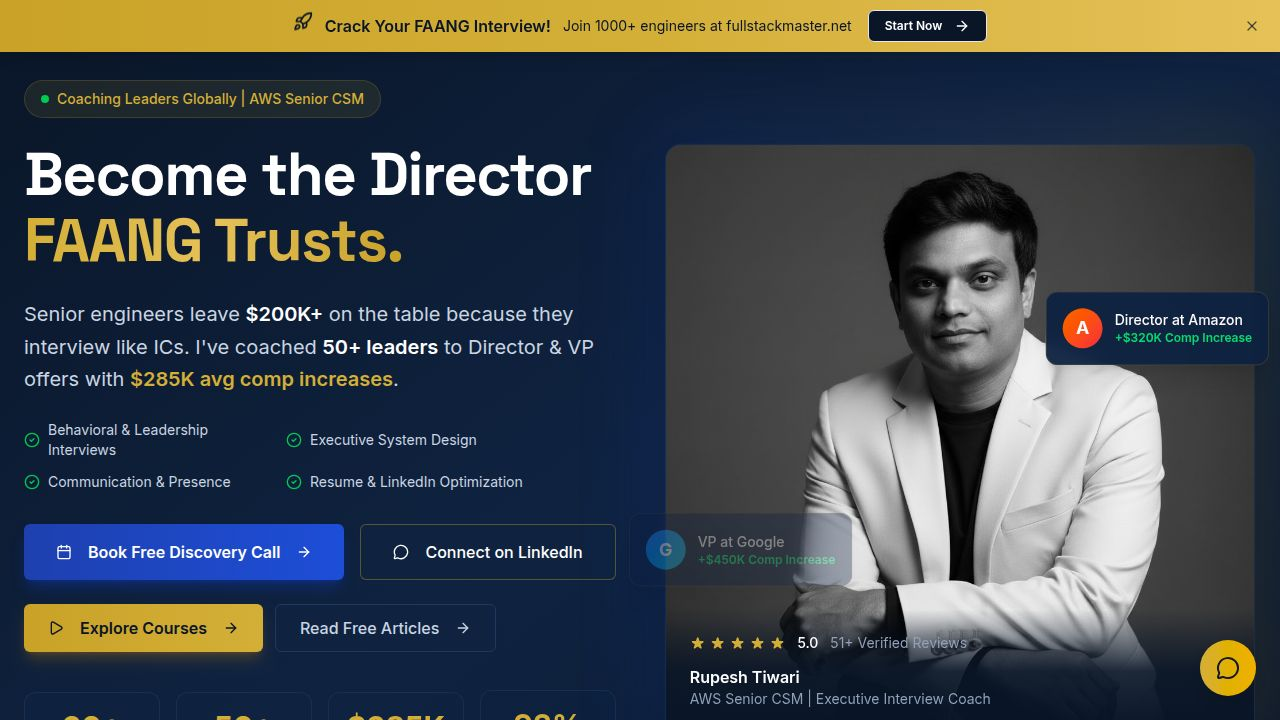
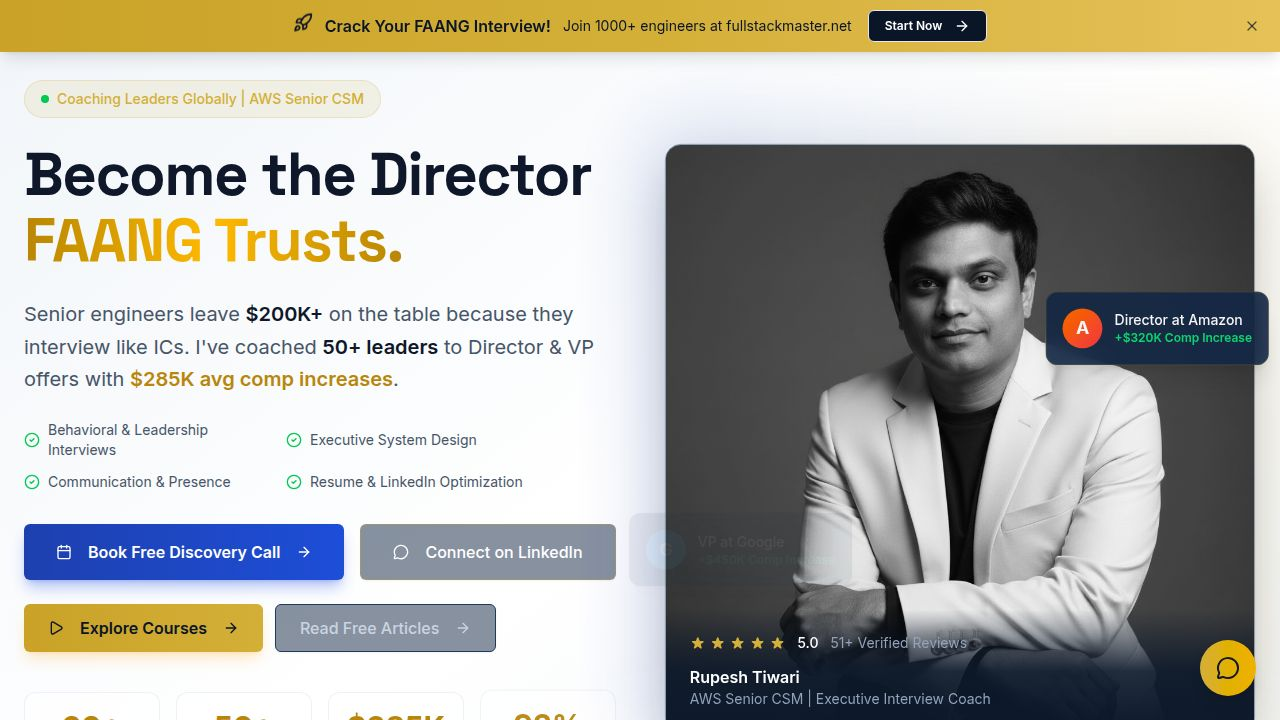
Enhance website interactivity and theme switching capabilities
Add a floating theme toggle button and improve search suggestions with keyboard navigation and visual feedback. Adjust hero and testimonial card interactions for a more engaging user experience.

Replit-Commit-Author: Agent
Replit-Commit-Session-Id: b697ffaf-d7ae-4622-821a-0321620efc27
Replit-Commit-Checkpoint-Type: intermediate_checkpoint
Replit-Commit-Event-Id: f4e4c627-a6f6-46a4-ac2e-e09452f16729
Replit-Commit-Screenshot-Url: https://storage.googleapis.com/screenshot-production-us-central1/61a264a3-8011-425a-8774-88c79ad887fa/b697ffaf-d7ae-4622-821a-0321620efc27/9WAB5SM
Replit-Helium-Checkpoint-Created: true

diff --git a/client/src/components/navbar.tsx b/client/src/components/navbar.tsx
@@ -1,17 +1,39 @@
-import { useState, useEffect } from "react";
+import { useState, useEffect, useRef } from "react";
 import { Link, useLocation } from "wouter";
-import { Menu, X, Calendar, MessageCircle, Search } from "lucide-react";
+import { Menu, X, Calendar, MessageCircle, Search, TrendingUp } from "lucide-react";
 import { Button } from "@/components/ui/button";
 import { motion, AnimatePresence } from "framer-motion";
 import { Input } from "@/components/ui/input";
 import ThemeToggle from "./theme-toggle";
+
+const searchSuggestions = [
+  { term: "System Design", icon: "🏗" },
+  { term: "AWS Architecture", icon: "☁" },
+  { term: "FAANG Interview", icon: "🎯" },
+  { term: "Microservices", icon: "🔧" },
+  { term: "Leadership", icon: "👔" },
+  { term: "Azure Cloud", icon: "💎" },
+  { term: "Kubernetes", icon: "⚙" },
+  { term: "DevOps", icon: "🚀" },
+  { term: "Angular", icon: "🅰" },
+  { term: "TypeScript", icon: "📘" },
+];
 
 export default function Navbar() {
   const [isOpen, setIsOpen] = useState(false);
   const [scrolled, setScrolled] = useState(false);
   const [showSearch, setShowSearch] = useState(false);
   const [searchQuery, setSearchQuery] = useState("");
+  const [showDesktopSuggestions, setShowDesktopSuggestions] = useState(false);
+  const [selectedIndex, setSelectedIndex] = useState(-1);
+  const searchRef = useRef<HTMLDivElement>(null);
   const [location] = useLocation();
+
+  const filteredSuggestions = searchQuery.trim()
+    ? searchSuggestions.filter(s => 
+        s.term.toLowerCase().includes(searchQuery.toLowerCase())
+      )
+    : searchSuggestions;
 
   const handleSearch = (e: React.FormEvent) => {
     e.preventDefault();
@@ -19,6 +41,33 @@ export default function Navbar() {
       window.open(`https://blog.rupeshtiwari.com/search?q=${encodeURIComponent(searchQuery.trim())}`, '_blank');
       setSearchQuery("");
       setShowSearch(false);
+      setShowDesktopSuggestions(false);
+    }
+  };
+
+  const handleSuggestionClick = (term: string) => {
+    window.open(`https://blog.rupeshtiwari.com/search?q=${encodeURIComponent(term)}`, '_blank');
+    setSearchQuery("");
+    setShowSearch(false);
+    setShowDesktopSuggestions(false);
+  };
+
+  const handleKeyDown = (e: React.KeyboardEvent) => {
+    if (!showDesktopSuggestions) return;
+    
+    if (e.key === "ArrowDown") {
+      e.preventDefault();
+      setSelectedIndex(prev => 
+        prev < filteredSuggestions.length - 1 ? prev + 1 : prev
+      );
+    } else if (e.key === "ArrowUp") {
+      e.preventDefault();
+      setSelectedIndex(prev => prev > 0 ? prev - 1 : -1);
+    } else if (e.key === "Enter" && selectedIndex >= 0) {
+      e.preventDefault();
+      handleSuggestionClick(filteredSuggestions[selectedIndex].term);
+    } else if (e.key === "Escape") {
+      setShowDesktopSuggestions(false);
     }
   };
 
@@ -28,6 +77,16 @@ export default function Navbar() {
     };
     window.addEventListener("scroll", handleScroll);
     return () => window.removeEventListener("scroll", handleScroll);
+  }, []);
+
+  useEffect(() => {
+    const handleClickOutside = (e: MouseEvent) => {
+      if (searchRef.current && !searchRef.current.contains(e.target as Node)) {
+        setShowDesktopSuggestions(false);
+      }
+    };
+    document.addEventListener("mousedown", handleClickOutside);
+    return () => document.removeEventListener("mousedown", handleClickOutside);
   }, []);
 
   const links = [
@@ -95,28 +154,70 @@ export default function Navbar() {
           <div className="flex items-center gap-2 ml-2">
             <AnimatePresence>
               {showSearch && (
-                <motion.form
+                <motion.div
+                  ref={searchRef}
                   initial={{ width: 0, opacity: 0 }}
-                  animate={{ width: "200px", opacity: 1 }}
+                  animate={{ width: "280px", opacity: 1 }}
                   exit={{ width: 0, opacity: 0 }}
                   transition={{ duration: 0.2 }}
-                  onSubmit={handleSearch}
-                  className="overflow-hidden"
+                  className="relative overflow-visible"
                 >
-                  <Input
-                    type="text"
-                    placeholder="Search blog..."
-                    value={searchQuery}
-                    onChange={(e) => setSearchQuery(e.target.value)}
-                    className="h-8 bg-[var(--theme-bg-card)] border-[var(--theme-border)] text-[var(--theme-text-primary)] placeholder:text-[var(--theme-text-muted)] focus:border-[var(--theme-gold)]"
-                    autoFocus
-                    data-testid="input-search"
-                  />
-                </motion.form>
+                  <form onSubmit={handleSearch}>
+                    <Input
+                      type="text"
+                      placeholder="Search blog..."
+                      value={searchQuery}
+                      onChange={(e) => {
+                        setSearchQuery(e.target.value);
+                        setShowDesktopSuggestions(true);
+                        setSelectedIndex(-1);
+                      }}
+                      onFocus={() => setShowDesktopSuggestions(true)}
+                      onKeyDown={handleKeyDown}
+                      className="h-8 bg-[var(--theme-bg-card)] border-[var(--theme-border)] text-[var(--theme-text-primary)] placeholder:text-[var(--theme-text-muted)] focus:border-[var(--theme-gold)]"
+                      autoFocus
+                      data-testid="input-search"
+                    />
+                  </form>
+                  <AnimatePresence>
+                    {showDesktopSuggestions && filteredSuggestions.length > 0 && (
+                      <motion.div
+                        initial={{ opacity: 0, y: -10 }}
+                        animate={{ opacity: 1, y: 0 }}
+                        exit={{ opacity: 0, y: -10 }}
+                        className="absolute top-full left-0 right-0 mt-1 bg-[var(--theme-bg-card)] border border-[var(--theme-border)] rounded-lg shadow-xl overflow-hidden z-50"
+                      >
+                        <div className="px-3 py-2 border-b border-[var(--theme-border)]">
+                          <span className="text-xs text-[var(--theme-text-muted)] flex items-center gap-1">
+                            <TrendingUp className="w-3 h-3" /> Popular Topics
+                          </span>
+                        </div>
+                        {filteredSuggestions.slice(0, 6).map((suggestion, index) => (
+                          <button
+                            key={suggestion.term}
+                            onClick={() => handleSuggestionClick(suggestion.term)}
+                            className={`w-full px-3 py-2 text-left text-sm flex items-center gap-2 transition-colors ${
+                              index === selectedIndex
+                                ? "bg-[var(--theme-gold)]/20 text-[var(--theme-gold)]"
+                                : "text-[var(--theme-text-primary)] hover:bg-[var(--theme-bg-secondary)]"
+                            }`}
+                            data-testid={`suggestion-${suggestion.term.toLowerCase().replace(/\s+/g, '-')}`}
+                          >
+                            <span>{suggestion.icon}</span>
+                            <span>{suggestion.term}</span>
+                          </button>
+                        ))}
+                      </motion.div>
+                    )}
+                  </AnimatePresence>
+                </motion.div>
               )}
             </AnimatePresence>
             <button
-              onClick={() => setShowSearch(!showSearch)}
+              onClick={() => {
+                setShowSearch(!showSearch);
+                if (!showSearch) setShowDesktopSuggestions(true);
+              }}
               className="p-2 text-[var(--theme-text-muted)] hover:text-[var(--theme-text-primary)] transition-colors"
               data-testid="button-search-toggle"
               title="Search Blog"
@@ -156,22 +257,51 @@ export default function Navbar() {
             className="md:hidden bg-[var(--theme-bg-secondary)] border-b border-[var(--theme-border)]"
           >
             <div className="flex flex-col p-6 gap-4">
-              <form onSubmit={handleSearch} className="relative mb-2">
-                <Input
-                  type="text"
-                  placeholder="Search blog articles..."
-                  value={searchQuery}
-                  onChange={(e) => setSearchQuery(e.target.value)}
-                  className="h-10 bg-[var(--theme-bg-card)] border-[var(--theme-border)] text-[var(--theme-text-primary)] placeholder:text-[var(--theme-text-muted)] focus:border-[var(--theme-gold)] pr-10"
-                  data-testid="input-search-mobile"
-                />
-                <button
-                  type="submit"
-                  className="absolute right-3 top-1/2 -translate-y-1/2 text-slate-400 hover:text-[#D4AF37]"
+              <div className="relative mb-2">
+                <form onSubmit={handleSearch}>
+                  <Input
+                    type="text"
+                    placeholder="Search blog articles..."
+                    value={searchQuery}
+                    onChange={(e) => setSearchQuery(e.target.value)}
+                    className="h-10 bg-[var(--theme-bg-card)] border-[var(--theme-border)] text-[var(--theme-text-primary)] placeholder:text-[var(--theme-text-muted)] focus:border-[var(--theme-gold)] pr-10"
+                    data-testid="input-search-mobile"
+                  />
+                  <button
+                    type="submit"
+                    className="absolute right-3 top-1/2 -translate-y-1/2 text-slate-400 hover:text-[#D4AF37]"
+                  >
+                    <Search className="w-4 h-4" />
+                  </button>
+                </form>
+                <motion.div
+                  initial={{ opacity: 0, y: -5 }}
+                  animate={{ opacity: 1, y: 0 }}
+                  className="mt-2 bg-[var(--theme-bg-card)] border border-[var(--theme-border)] rounded-lg overflow-hidden"
                 >
-                  <Search className="w-4 h-4" />
-                </button>
-              </form>
+                  <div className="px-3 py-2 border-b border-[var(--theme-border)]">
+                    <span className="text-xs text-[var(--theme-text-muted)] flex items-center gap-1">
+                      <TrendingUp className="w-3 h-3" /> Popular Topics
+                    </span>
+                  </div>
+                  <div className="grid grid-cols-2 gap-1 p-2">
+                    {filteredSuggestions.slice(0, 6).map((suggestion) => (
+                      <button
+                        key={suggestion.term}
+                        onClick={() => {
+                          handleSuggestionClick(suggestion.term);
+                          setIsOpen(false);
+                        }}
+                        className="px-3 py-2 text-left text-sm flex items-center gap-2 text-[var(--theme-text-primary)] hover:bg-[var(--theme-bg-secondary)] rounded-md transition-colors active:scale-95"
+                        data-testid={`suggestion-mobile-${suggestion.term.toLowerCase().replace(/\s+/g, '-')}`}
+                      >
+                        <span>{suggestion.icon}</span>
+                        <span className="truncate">{suggestion.term}</span>
+                      </button>
+                    ))}
+                  </div>
+                </motion.div>
+              </div>
               {links.map((link) => (
                 link.external ? (
                   <a

diff --git a/client/src/components/floating-theme-toggle.tsx b/client/src/components/floating-theme-toggle.tsx
@@ -1,0 +1,76 @@
+import { Moon, Sun } from "lucide-react";
+import { useEffect, useState } from "react";
+import { motion, AnimatePresence } from "framer-motion";
+
+export default function FloatingThemeToggle() {
+  const [theme, setThemeState] = useState<"light" | "dark">("dark");
+  const [mounted, setMounted] = useState(false);
+  const [isHovered, setIsHovered] = useState(false);
+
+  useEffect(() => {
+    setMounted(true);
+    const stored = localStorage.getItem("theme") as "light" | "dark" | null;
+    const systemDark = window.matchMedia("(prefers-color-scheme: dark)").matches;
+    const initial = stored || (systemDark ? "dark" : "light");
+    setThemeState(initial);
+
+    const observer = new MutationObserver(() => {
+      const isDark = document.documentElement.classList.contains("dark");
+      setThemeState(isDark ? "dark" : "light");
+    });
+
+    observer.observe(document.documentElement, {
+      attributes: true,
+      attributeFilter: ["class"],
+    });
+
+    return () => observer.disconnect();
+  }, []);
+
+  const toggleTheme = () => {
+    const newTheme = theme === "dark" ? "light" : "dark";
+    setThemeState(newTheme);
+    localStorage.setItem("theme", newTheme);
+    document.documentElement.classList.toggle("dark", newTheme === "dark");
+    document.documentElement.classList.toggle("light", newTheme === "light");
+  };
+
+  if (!mounted) return null;
+
+  return (
+    <motion.button
+      initial={{ scale: 0, opacity: 0 }}
+      animate={{ scale: 1, opacity: 1 }}
+      transition={{ delay: 1, type: "spring", stiffness: 200 }}
+      onClick={toggleTheme}
+      onMouseEnter={() => setIsHovered(true)}
+      onMouseLeave={() => setIsHovered(false)}
+      className="fixed bottom-6 left-6 z-50 flex items-center gap-2 p-3 rounded-full bg-gradient-to-r from-[var(--theme-gold)] to-amber-500 text-slate-900 shadow-lg hover:shadow-xl transition-all duration-300 group"
+      data-testid="button-floating-theme-toggle"
+      title={theme === "dark" ? "Switch to light mode" : "Switch to dark mode"}
+    >
+      <motion.div
+        animate={{ rotate: isHovered ? 180 : 0 }}
+        transition={{ duration: 0.3 }}
+      >
+        {theme === "dark" ? (
+          <Sun className="w-5 h-5" />
+        ) : (
+          <Moon className="w-5 h-5" />
+        )}
+      </motion.div>
+      <AnimatePresence>
+        {isHovered && (
+          <motion.span
+            initial={{ width: 0, opacity: 0 }}
+            animate={{ width: "auto", opacity: 1 }}
+            exit={{ width: 0, opacity: 0 }}
+            className="text-sm font-medium overflow-hidden whitespace-nowrap"
+          >
+            {theme === "dark" ? "Light Mode" : "Dark Mode"}
+          </motion.span>
+        )}
+      </AnimatePresence>
+    </motion.button>
+  );
+}

diff --git a/client/src/components/hero.tsx b/client/src/components/hero.tsx
@@ -166,11 +166,13 @@ export default function Hero() {
                   initial={{ opacity: 0, y: 20 }}
                   animate={{ opacity: 1, y: 0 }}
                   transition={{ delay: 0.5 + i * 0.1 }}
-                  className="text-center p-4 rounded-xl bg-[var(--theme-bg-card)]/60 border border-[var(--theme-border)]/60"
+                  whileHover={{ scale: 1.05, y: -5 }}
+                  whileTap={{ scale: 0.98 }}
+                  className="text-center p-4 rounded-xl bg-[var(--theme-bg-card)]/60 border border-[var(--theme-border)]/60 hover:border-[var(--theme-gold)]/40 hover:bg-[var(--theme-bg-card)]/80 transition-colors cursor-pointer group"
                   data-testid={`stat-${i}`}
                 >
-                  <div className="text-2xl md:text-3xl font-bold text-[var(--theme-gold)] mb-1">{stat.value}</div>
-                  <div className="text-xs text-[var(--theme-text-muted)] uppercase tracking-wider">{stat.label}</div>
+                  <div className="text-2xl md:text-3xl font-bold text-[var(--theme-gold)] mb-1 group-hover:scale-110 transition-transform">{stat.value}</div>
+                  <div className="text-xs text-[var(--theme-text-muted)] uppercase tracking-wider group-hover:text-[var(--theme-text-secondary)] transition-colors">{stat.label}</div>
                 </motion.div>
               ))}
             </div>

diff --git a/client/src/components/testimonials.tsx b/client/src/components/testimonials.tsx
@@ -88,9 +88,10 @@ export default function Testimonials() {
               whileInView={{ opacity: 1, y: 0 }}
               viewport={{ once: true }}
               transition={{ delay: idx * 0.1 }}
-              className="group"
+              whileHover={{ y: -8, scale: 1.02 }}
+              className="group cursor-pointer"
             >
-              <div className="h-full p-6 rounded-2xl bg-[#0A1628]/50 border border-[#1E3A5F]/50 hover:border-[#C9A227]/30 transition-all hover:bg-[#0A1628]/80">
+              <div className="h-full p-6 rounded-2xl bg-[#0A1628]/50 border border-[#1E3A5F]/50 hover:border-[#C9A227]/30 transition-all hover:bg-[#0A1628]/80 hover:shadow-xl hover:shadow-[#C9A227]/10">
                 <div className="flex justify-between items-start mb-4">
                   <div className="flex items-center gap-3">
                     <div className={`w-12 h-12 rounded-full bg-gradient-to-br ${item.color} flex items-center justify-center`}>

diff --git a/client/src/App.tsx b/client/src/App.tsx
@@ -4,6 +4,7 @@ import { QueryClientProvider } from "@tanstack/react-query";
 import { Toaster } from "@/components/ui/toaster";
 import { TooltipProvider } from "@/components/ui/tooltip";
 import FullStackMasterBanner from "@/components/fullstackmaster-banner";
+import FloatingThemeToggle from "@/components/floating-theme-toggle";
 import Home from "@/pages/home";
 import Blog from "@/pages/blog";
 import Privacy from "@/pages/privacy";
@@ -34,6 +35,7 @@ function App() {
       <TooltipProvider>
         <FullStackMasterBanner />
         <Toaster />
+        <FloatingThemeToggle />
         <Router />
       </TooltipProvider>
     </QueryClientProvider>
